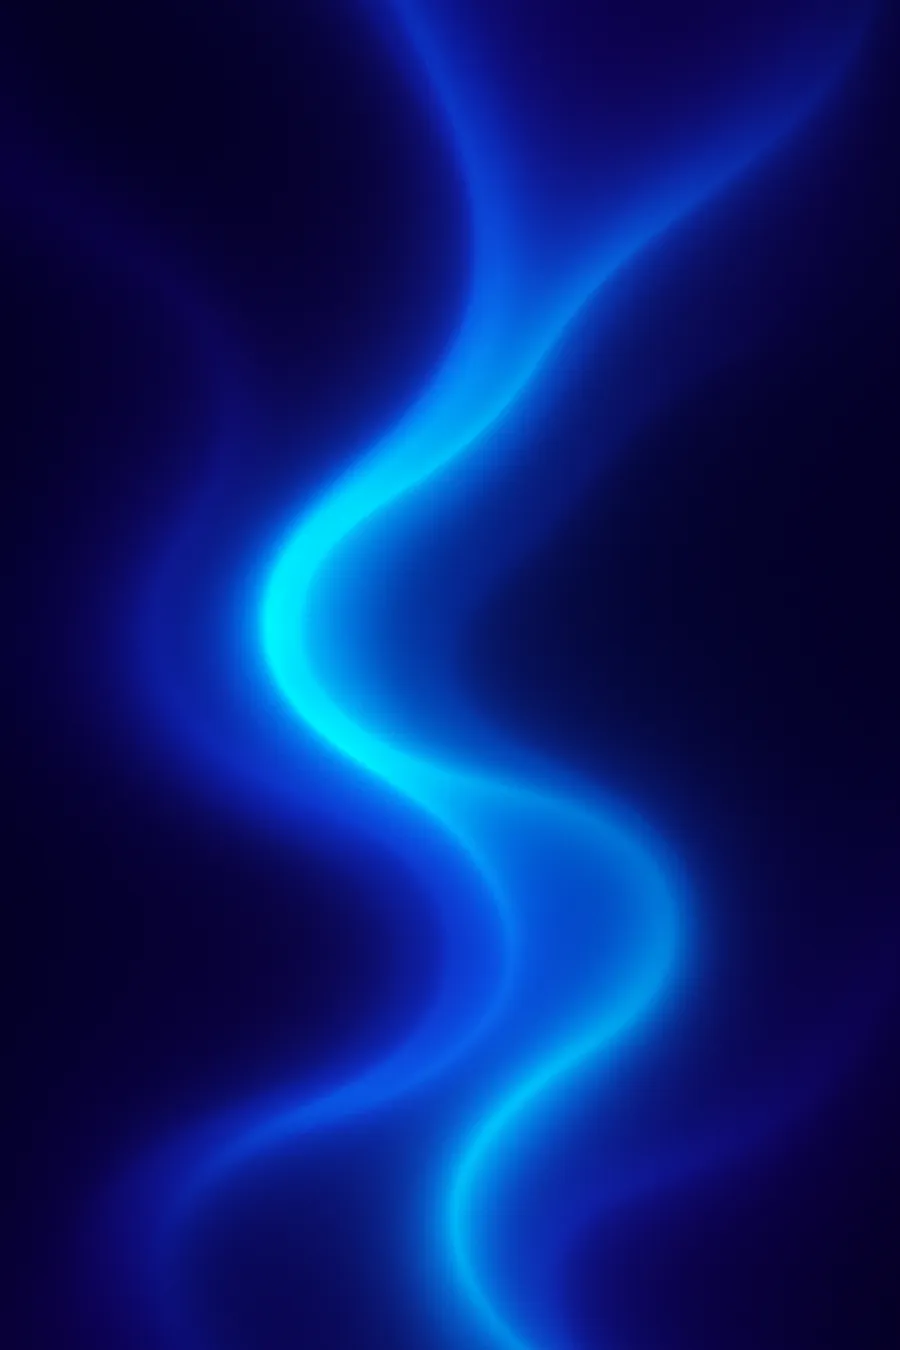
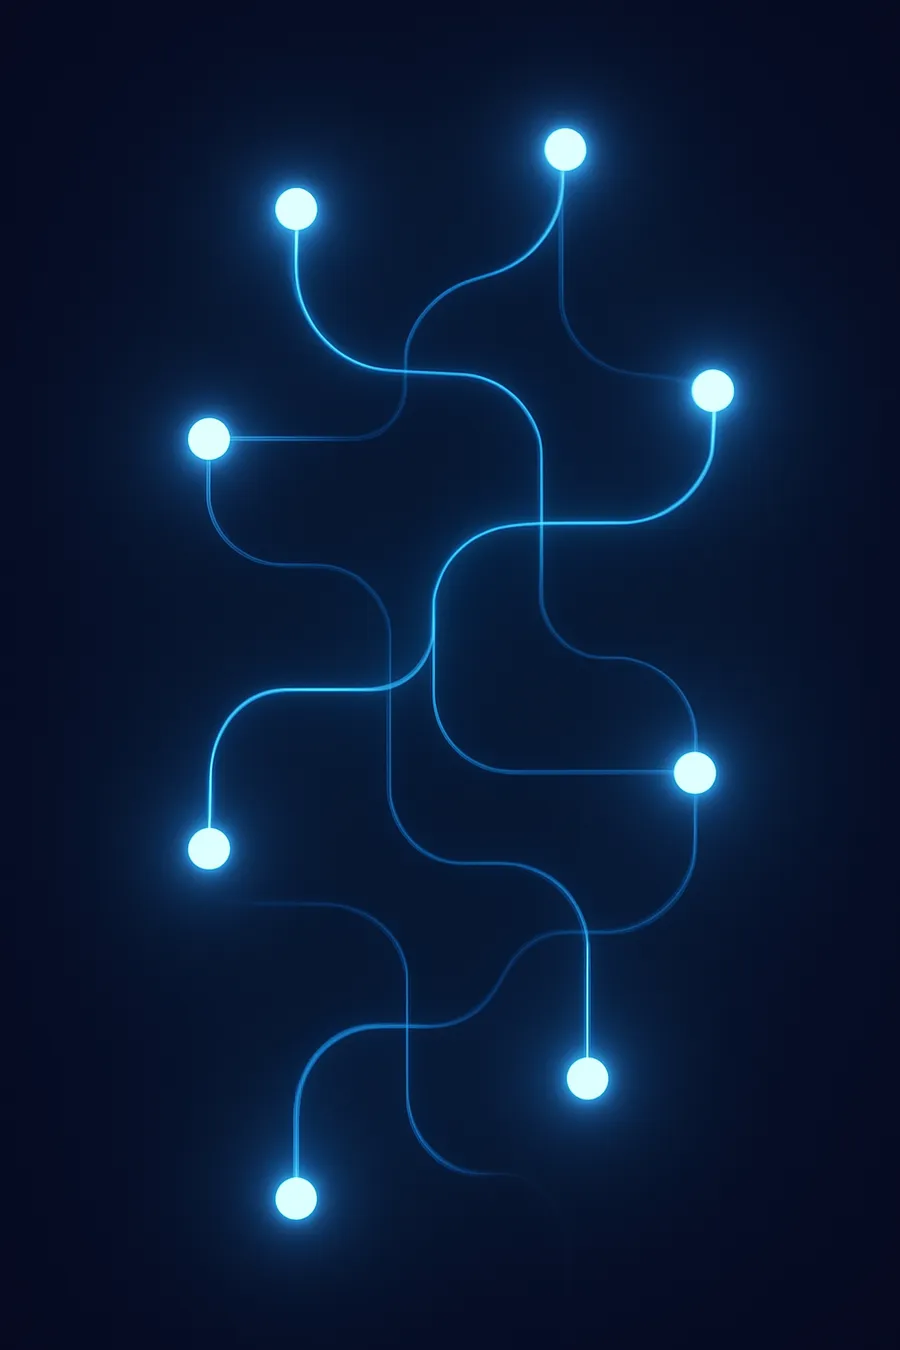
Strona glowna: wyrownane teksty kolumn, mocniejszy hover, nowe obrazy
- Teksty 3 kolumn wyrownane do podobnej dlugosci (~17-21 slow kazda),
  3 zdania kazda. Bylo: Dane 6 slow, Automatyzacja 40 slow.
- Hover wzmocniony: obraz zoom scale-110 + opacity 50→100 + saturate,
  akcentowa poswiata od dolu, ramka accent ring-[3px], numer →accent,
  "Wejdz" zmienia sie w accentowy przycisk, tresc unosi sie -translate-y-2.
- Nowe obrazy tematyczne (OpenAI gpt-image-1): web = motyw interfejsu/
  layoutu, automation = siec polaczonych wezlow, data = strumienie
  danych i czastki. Zamiast generycznych aur.

diff --git a/app/page.tsx b/app/page.tsx
@@ -7,21 +7,21 @@ const PILLARS = [
     img: "/abstract/web.webp",
     num: "01",
     title: "Strony WWW",
-    desc: "Nowa strona albo poprawki w obecnej — szybko, mobilnie, z naciskiem na konwersję.",
+    desc: "Tworzę nowe strony i poprawiam istniejące. Szybko, mobilnie, z naciskiem na konwersję. Treści i grafikę wspiera AI.",
   },
   {
     href: "/automatyzacja-leadow-crm",
     img: "/abstract/automation.webp",
     num: "02",
     title: "Automatyzacja",
-    desc: "Narzędzia no-code automatyzują proste elementy pracy niskim kosztem. API łączy większość narzędzi i pozwala na zaawansowane reguły interakcji między nimi. AI przetwarza kod, tekst, obraz i dźwięk — ogromne możliwości przyspieszania pracy.",
+    desc: "No-code tanio automatyzuje proste, powtarzalne zadania. API łączy większość narzędzi w zaawansowane reguły. AI przetwarza kod, tekst, obraz i dźwięk.",
   },
   {
     href: "/scraping-danych",
     img: "/abstract/data.webp",
     num: "03",
     title: "Dane",
-    desc: "Wyszukiwanie, pozyskiwanie, analiza i raportowanie danych.",
+    desc: "Wyszukiwanie i pozyskiwanie danych z dowolnych źródeł. Analiza i porządkowanie tego, co rozproszone. Raportowanie bez ręcznej pracy.",
   },
 ];
 
@@ -53,28 +53,40 @@ export default function Home() {
             href={p.href}
             className="group relative flex flex-col justify-end overflow-hidden min-h-[34vh] lg:min-h-0 border-t lg:border-t-0 lg:border-l border-white/10 first:border-0 focus:outline-none focus-visible:ring-2 focus-visible:ring-inset focus-visible:ring-accent"
           >
-            {/* Abstrakcyjne tło */}
+            {/* Abstrakcyjne tło — mocny zoom + rozjaśnienie na hover */}
             <Image
               src={p.img}
               alt=""
               fill
               priority
               sizes="(max-width: 1024px) 100vw, 33vw"
-              className="object-cover opacity-55 transition-all duration-700 ease-out group-hover:opacity-85 group-hover:scale-105"
+              className="object-cover opacity-50 saturate-[0.85] transition-all duration-700 ease-out group-hover:opacity-100 group-hover:scale-110 group-hover:saturate-125"
             />
             {/* Przyciemnienie dla czytelności */}
-            <div className="absolute inset-0 bg-gradient-to-t from-gray-950 via-gray-950/55 to-gray-950/10 transition-opacity duration-500 group-hover:from-gray-950/95" />
+            <div className="absolute inset-0 bg-gradient-to-t from-gray-950 via-gray-950/55 to-gray-950/10 transition-all duration-500 group-hover:from-gray-950/90 group-hover:via-gray-950/35" />
+            {/* Akcentowa poświata od dołu — pojawia się na hover */}
+            <div
+              aria-hidden="true"
+              className="absolute inset-x-0 bottom-0 h-1/2 bg-gradient-to-t from-accent/30 to-transparent opacity-0 transition-opacity duration-500 group-hover:opacity-100"
+            />
+            {/* Ramka akcentowa na hover */}
+            <div
+              aria-hidden="true"
+              className="absolute inset-0 ring-0 ring-inset ring-accent transition-all duration-300 group-hover:ring-[3px]"
+            />
 
-            {/* Treść */}
-            <div className="relative p-7 lg:p-10 transition-transform duration-500 ease-out group-hover:-translate-y-1">
-              <span className="text-sm font-mono text-white/40">{p.num}</span>
+            {/* Treść — unosi się na hover */}
+            <div className="relative p-7 lg:p-10 transition-transform duration-500 ease-out group-hover:-translate-y-2">
+              <span className="text-sm font-mono text-white/40 transition-colors duration-300 group-hover:text-accent">
+                {p.num}
+              </span>
               <h2 className="mt-1.5 text-3xl lg:text-4xl xl:text-5xl font-bold tracking-tight">
                 {p.title}
               </h2>
               <p className="mt-2.5 text-sm lg:text-base text-white/65 leading-relaxed max-w-sm">
                 {p.desc}
               </p>
-              <span className="mt-5 inline-flex items-center gap-2 text-accent font-semibold transition-all duration-300 group-hover:gap-3.5">
+              <span className="mt-5 inline-flex items-center gap-2 rounded-lg px-3 py-1.5 -ml-3 text-accent font-semibold transition-all duration-300 group-hover:gap-3.5 group-hover:bg-accent group-hover:text-white">
                 Wejdź
                 <span aria-hidden="true">→</span>
               </span>
